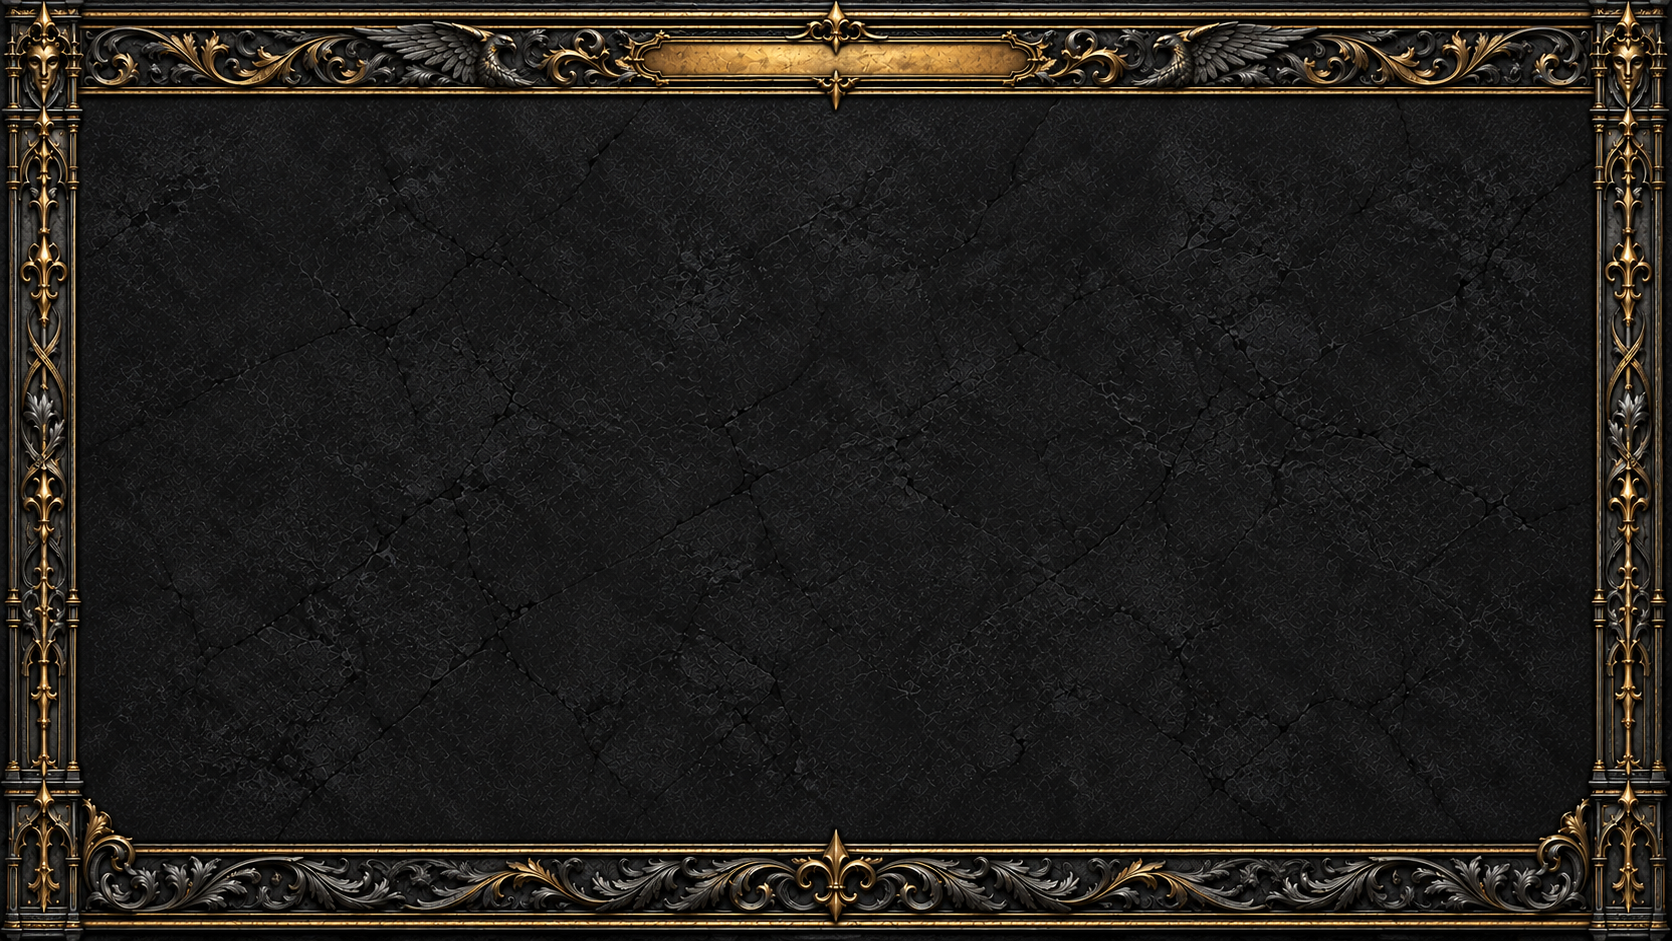
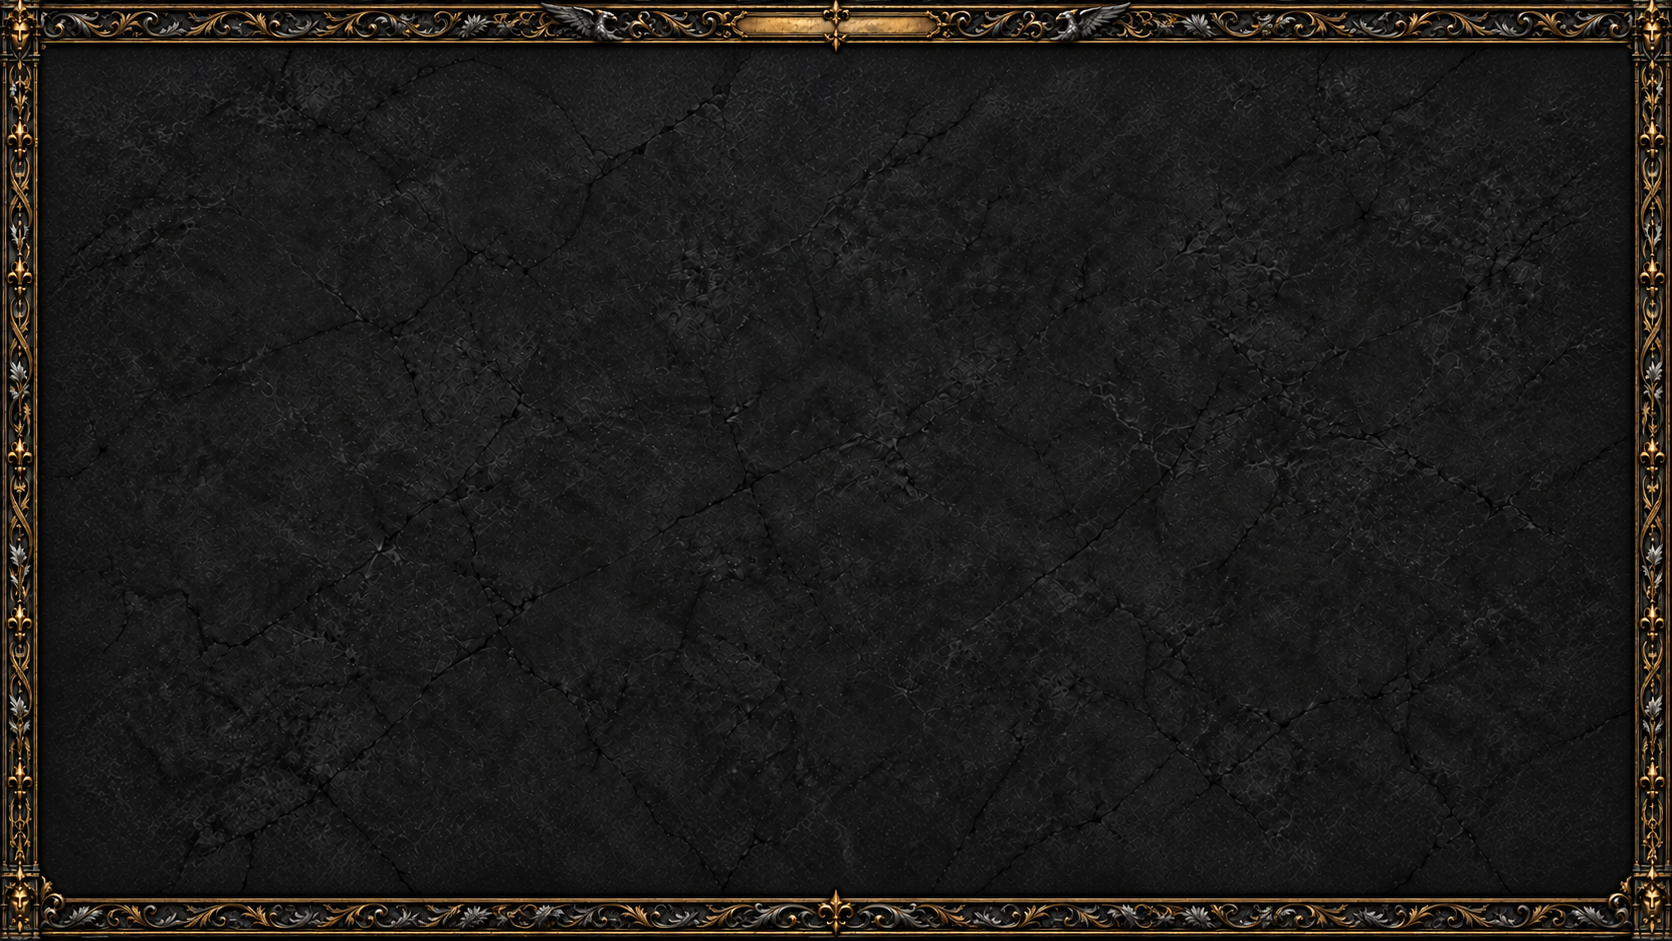
Use the selected fine frame and reclaim the surrounding space

diff --git a/ExileCenter/Ui/ImGuiTheme.cs b/ExileCenter/Ui/ImGuiTheme.cs
@@ -23,9 +23,9 @@ namespace ExileCenter.Ui
         private static IntPtr frameTexture;
         private const float FrameWidth = 1672f;
         private const float FrameHeight = 941f;
-        private const float FrameEdge = 80f / FrameWidth;
-        private const float FrameHeader = 112f / FrameWidth;
-        private const float FrameFooter = 111f / FrameWidth;
+        private const float FrameEdge = 40f / FrameWidth;
+        private const float FrameHeader = 56f / FrameWidth;
+        private const float FrameFooter = 56f / FrameWidth;
         private static readonly Dictionary<(IntPtr Context, string Name), Vector2> frameSizes = new();
 
         internal static bool BeginSettingsWindow(string name, ref bool open, ImGuiWindowFlags flags)
@@ -143,25 +143,25 @@ namespace ExileCenter.Ui
             float header = imageSize.X * FrameHeader;
             float edge = imageSize.X * FrameEdge;
             float bottom = imageSize.X * FrameFooter;
-            if (end.Y - position.Y < header + imageSize.X * (151f / FrameWidth) + 12) return false;
+            if (end.Y - position.Y < header + imageSize.X * (66f / FrameWidth) + 12) return false;
             var draw = ImGui.GetWindowDrawList();
             draw.PushClipRect(position, end, false);
             DrawFrameArtwork(draw, position, imageSize);
             if (heading)
             {
                 var font = ImGui.GetFont();
-                float fontSize = Math.Min(header * .24f, Math.Max(ImGui.GetFontSize() * 1.10f, imageSize.X * .014f));
-                float width = scale * .22f;
+                float fontSize = Math.Min(header * .30f, Math.Max(ImGui.GetFontSize() * 1.10f, imageSize.X * .014f));
+                float width = scale * .11f;
                 var measured = ImGui.CalcTextSize(title) * (fontSize / ImGui.GetFontSize());
                 if (measured.X > width) { fontSize *= width / measured.X; measured *= width / measured.X; }
-                var center = position + new Vector2(imageSize.X / 2, header * (59f / 112f));
+                var center = position + new Vector2(imageSize.X / 2, header * (26f / 56f));
                 draw.AddText(font, fontSize, center - measured / 2 + Vector2.One,
                     ImGui.GetColorU32(new Vector4(.87f, .76f, .48f, 1)), title);
                 draw.AddText(font, fontSize, center - measured / 2,
                     ImGui.GetColorU32(new Vector4(.075f, .055f, .025f, 1)), title);
                 // The top and bottom margins differ: start the body below the header
                 // even though Begin uses symmetric padding for the work rectangle.
-                float contentTop = frame.Offset.Y + header + style.WindowPadding.Y;
+                float contentTop = Math.Max(ImGui.GetCursorPosY(), frame.Offset.Y + header + style.WindowPadding.Y);
                 ImGui.SetCursorPosY(contentTop);
                 ImGui.Dummy(Vector2.Zero);
             }
@@ -206,8 +206,8 @@ namespace ExileCenter.Ui
             float scale = size.X / FrameWidth;
             // Keep the full header and footer at the same uniform scale as their corners.
             // Only the stone and the length of the shafts adapt to the window's aspect ratio.
-            var stoneMin = new Vector2(80, 112);
-            var stoneSize = new Vector2(1512, 718);
+            var stoneMin = new Vector2(40, 56);
+            var stoneSize = new Vector2(1592, 829);
             float cover = Math.Max(size.X / stoneSize.X, size.Y / stoneSize.Y);
             var visibleStone = size / cover;
             var stoneStart = stoneMin + (stoneSize - visibleStone) / 2;
@@ -220,21 +220,21 @@ namespace ExileCenter.Ui
                     sourceMin / sourceSize, sourceMax / sourceSize, 0xffffffff);
             }
 
-            float top = 112 * scale;
-            float footer = 151 * scale;
+            float top = 56 * scale;
+            float footer = 66 * scale;
             float shaftEnd = size.Y - footer;
-            float tileHeight = 678 * scale;
+            float tileHeight = 819 * scale;
             for (float y = top; y < shaftEnd; y += tileHeight)
             {
                 float height = Math.Min(tileHeight, shaftEnd - y) / scale;
                 bool reverse = ((int)Math.Round((y - top) / tileHeight) & 1) != 0;
-                float first = reverse ? 790 : 112;
+                float first = reverse ? 875 : 56;
                 float last = first + (reverse ? -height : height);
-                Patch(position + new Vector2(0, y), new Vector2(0, first), new Vector2(80, last));
-                Patch(position + new Vector2(size.X - 80 * scale, y), new Vector2(1592, first), new Vector2(1672, last));
+                Patch(position + new Vector2(0, y), new Vector2(0, first), new Vector2(40, last));
+                Patch(position + new Vector2(size.X - 40 * scale, y), new Vector2(1632, first), new Vector2(1672, last));
             }
-            Patch(position, Vector2.Zero, new Vector2(1672, 112));
-            Patch(position + new Vector2(0, size.Y - footer), new Vector2(0, 790), sourceSize);
+            Patch(position, Vector2.Zero, new Vector2(1672, 56));
+            Patch(position + new Vector2(0, size.Y - footer), new Vector2(0, 875), sourceSize);
         }
 
         private static void DrawWindowBackground(ImGuiWindowFlags flags, float shade = 0.88f)

diff --git a/scripts/check-tablet-ranking.cs b/scripts/check-tablet-ranking.cs
@@ -1532,9 +1532,11 @@ internal static class TabletRankingCheck
                 bool drawn=(bool)ornate.Invoke(null,new object[]{"ExileCenter##hidden-id",panelFlags,true,false,-1f});
                 Check(drawn==(panelFlags==ImGuiNET.ImGuiWindowFlags.None),"The textured skin excludes transparent and input-free overlays: "+panelFlags);
                 var contentClip=list.CmdBuffer[list.CmdBuffer.Size-1].ClipRect;
-                Check(drawn?contentClip.X>=oldClip.X&&contentClip.Z<=oldClip.Z&&contentClip.W<oldClip.W&&contentClip.Y>oldClip.Y:contentClip==oldClip,
+                Check(drawn?contentClip.X>=oldClip.X&&contentClip.Z<=oldClip.Z&&contentClip.W<=oldClip.W&&contentClip.Y>=oldClip.Y&&
+                    contentClip.Y>=ImGuiNET.ImGui.GetWindowPos().Y+ImGuiNET.ImGui.GetWindowWidth()*(56f/1672)&&
+                    contentClip.W<=ImGuiNET.ImGui.GetWindowPos().Y+ImGuiNET.ImGui.GetWindowHeight()-ImGuiNET.ImGui.GetWindowWidth()*(56f/1672):contentClip==oldClip,
                     "Content clipping protects the cartouche and carved borders: "+panelFlags);
-                Check(drawn?ImGuiNET.ImGui.GetCursorScreenPos().Y>oldCursor.Y:ImGuiNET.ImGui.GetCursorScreenPos()==oldCursor,
+                Check(drawn?ImGuiNET.ImGui.GetCursorScreenPos().Y>=oldCursor.Y:ImGuiNET.ImGui.GetCursorScreenPos()==oldCursor,
                     "Only opaque titled windows reserve space for their gold cartouche: "+panelFlags);
                 ImGuiNET.ImGui.TextUnformatted("Filtres et configuration");
                 bool enabled=true;ImGuiNET.ImGui.Checkbox("Activer le filtre",ref enabled);
@@ -1621,8 +1623,8 @@ internal static class TabletRankingCheck
                                 Check(vertices.All(v=>v.col==0xffffffff),"The original frame colors have no tint or opacity modification: "+windowSize);
                                 artworkMin=Vector2.Min(artworkMin,new Vector2(vertices.Min(v=>v.pos.X),vertices.Min(v=>v.pos.Y)));
                                 artworkMax=Vector2.Max(artworkMax,new Vector2(vertices.Max(v=>v.pos.X),vertices.Max(v=>v.pos.Y)));
-                                if(Math.Abs(du-1)<.0001f&&Math.Abs(vertices.Min(v=>v.uv.Y))<.0001f&&Math.Abs(dv-112f/941)<.0001f)headerTriangles++;
-                                if(Math.Abs(du-1)<.0001f&&Math.Abs(vertices.Min(v=>v.uv.Y)-790f/941)<.0001f&&Math.Abs(vertices.Max(v=>v.uv.Y)-1)<.0001f)footerTriangles++;
+                                if(Math.Abs(du-1)<.0001f&&Math.Abs(vertices.Min(v=>v.uv.Y))<.0001f&&Math.Abs(dv-56f/941)<.0001f)headerTriangles++;
+                                if(Math.Abs(du-1)<.0001f&&Math.Abs(vertices.Min(v=>v.uv.Y)-875f/941)<.0001f&&Math.Abs(vertices.Max(v=>v.uv.Y)-1)<.0001f)footerTriangles++;
                                 Check(vertices.All(v=>v.pos.X>=command.ClipRect.X-.01f&&v.pos.X<=command.ClipRect.Z+.01f&&
                                     v.pos.Y>=command.ClipRect.Y-.01f&&v.pos.Y<=command.ClipRect.W+.01f),
                                     "No image edge or corner is clipped, including beside native scrollbars: "+windowSize);
@@ -1633,12 +1635,12 @@ internal static class TabletRankingCheck
                         Check(Vector2.Distance(artworkMin,imageStart)<1&&Vector2.Distance(artworkMax,imageStart+new Vector2(imageWidth,imageHeight))<1,
                             "Artwork fills all viewport edges without black lateral margins: "+windowSize);
                         var cursor=ImGuiNET.ImGui.GetCursorScreenPos();var available=ImGuiNET.ImGui.GetContentRegionAvail();
-                        Check(cursor.X>=imageStart.X+imageWidth*(80f/1672)-1&&cursor.X+available.X<=imageStart.X+imageWidth*(1-80f/1672)+1,
+                        Check(cursor.X>=imageStart.X+imageWidth*(40f/1672)-1&&cursor.X+available.X<=imageStart.X+imageWidth*(1-40f/1672)+1,
                             "Content and fill-width controls fit between the proportional pillars: "+windowSize);
-                        Check(cursor.Y>=imageStart.Y+imageWidth*(112f/1672)&&cursor.Y+available.Y<=imageStart.Y+imageHeight-imageWidth*(111f/1672)+1,
+                        Check(cursor.Y>=imageStart.Y+imageWidth*(56f/1672)&&cursor.Y+available.Y<=imageStart.Y+imageHeight-imageWidth*(56f/1672)+1,
                             "The work rectangle reserves both the cartouche and the carved footer: "+windowSize);
                     }
-                    if(ImGuiNET.ImGui.BeginMenuBar()){ImGuiNET.ImGui.MenuItem("ExileCenter P-V1.59");ImGuiNET.ImGui.EndMenuBar();}
+                    if(ImGuiNET.ImGui.BeginMenuBar()){ImGuiNET.ImGui.MenuItem("ExileCenter P-V1.60");ImGuiNET.ImGui.EndMenuBar();}
                     ImGuiNET.ImGui.BeginChild("Navigation",new Vector2(Math.Min(220,ImGuiNET.ImGui.GetContentRegionAvail().X*.3f),0),ImGuiNET.ImGuiChildFlags.Borders);
                     foreach(var label in new[]{"Application","General","Plugins","Mises a jour","Plugins actifs","Auto-craft TP"})ImGuiNET.ImGui.Selectable(label,label=="Plugins");
                     ImGuiNET.ImGui.EndChild();ImGuiNET.ImGui.SameLine();
